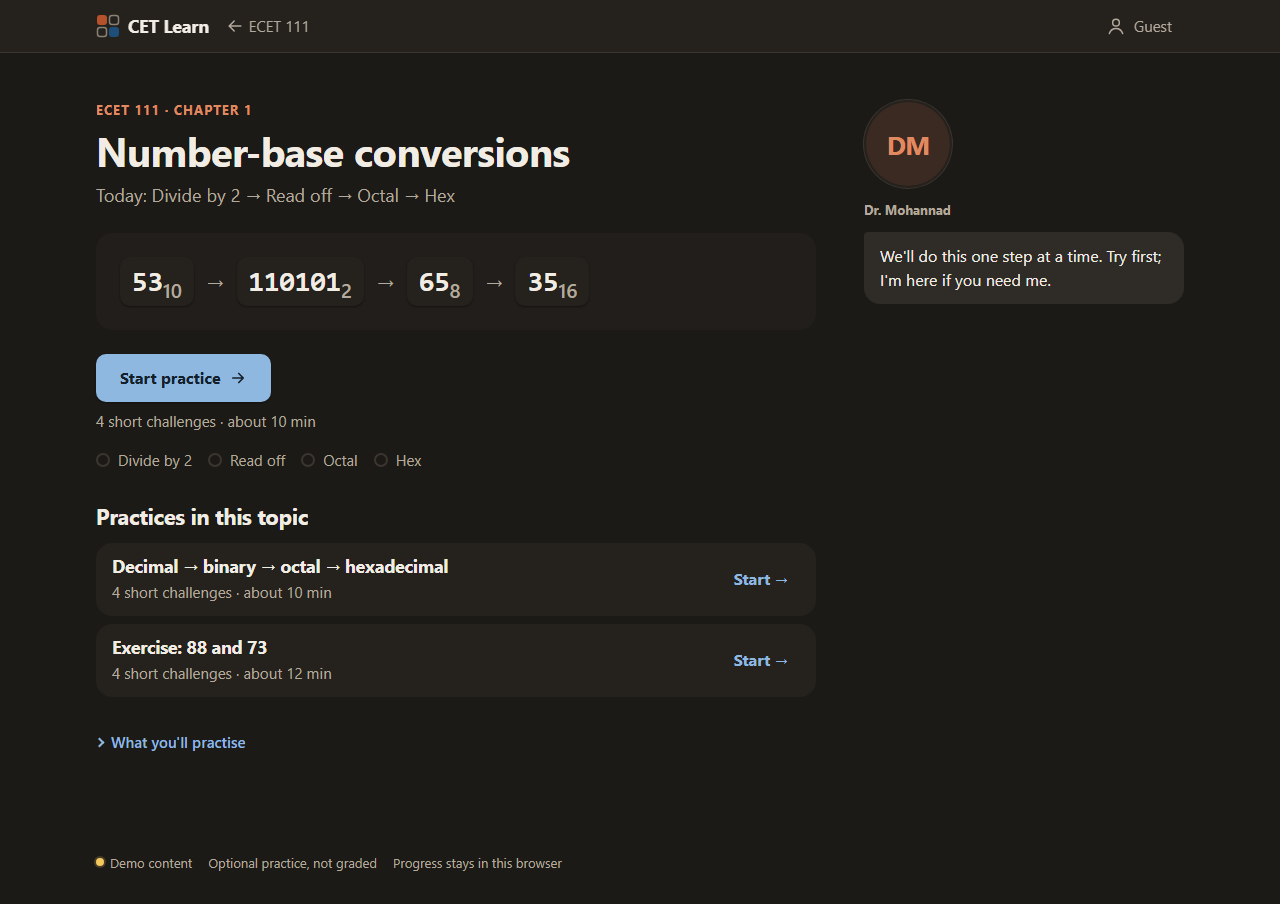
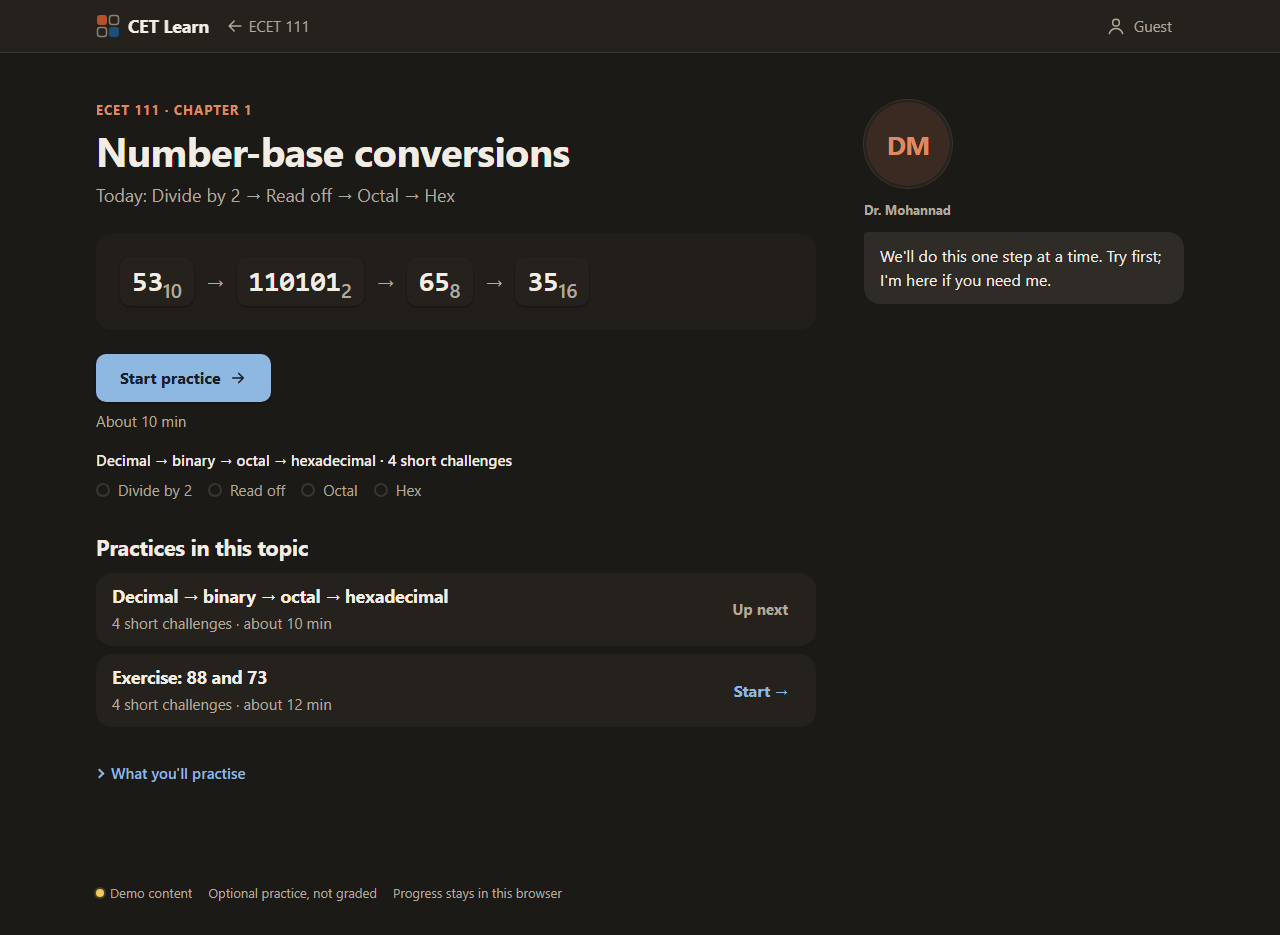
fix(shell): topic page review — shared practiceAction, labelled steps, Up next row, aligned rows, 12 px subscripts

diff --git a/src/shell/r1/TopicNext.tsx b/src/shell/r1/TopicNext.tsx
@@ -4,7 +4,7 @@ import Link from "next/link";
 import { useSyncExternalStore } from "react";
 import type { Course, Topic } from "@/content/schema";
 import { useOfferingProgress } from "@/learner";
-import { practiceHref, reviewHref, topicAction } from "../primaryAction";
+import { practiceAction, topicAction } from "../primaryAction";
 import { ChallengeSteps, stepsFrom } from "./ChallengeSteps";
 import { PrimaryAction, effortCue } from "./PrimaryAction";
 import styles from "./r1.module.css";
@@ -27,15 +27,26 @@ export function TopicNext({ course, topic }: { course: Course; topic: Topic }) {
   const record = progress.activities[activity.id];
   const done = record?.status === "completed" ? activity.questions.map((q) => q.id) : (record?.completedQuestions ?? []);
   const finished = action.kind === "next-topic" || action.kind === "review";
+  const several = topic.activities.length > 1;
 
   return (
     <div className={styles.next} style={ready ? undefined : { visibility: "hidden" }} aria-busy={!ready} data-action={action.kind}>
       <PrimaryAction
         primary={action.primary}
         secondary={action.secondary}
-        effort={finished ? "Completed. You can review it any time." : effortCue(activity.questions.length, activity.minutes)}
+        effort={finished ? "Completed. You can review it any time." : several ? `About ${activity.minutes} min` : effortCue(activity.questions.length, activity.minutes)}
       />
-      {!finished && <ChallengeSteps steps={stepsFrom(activity.questions, done, record?.status === "started")} />}
+      {!finished && (
+        <div className={styles.stepsBlock}>
+          {/* with several practices, say which one the steps belong to */}
+          {several && (
+            <p className={styles.stepsLabel}>
+              {activity.title} · {activity.questions.length} short challenge{activity.questions.length === 1 ? "" : "s"}
+            </p>
+          )}
+          <ChallengeSteps steps={stepsFrom(activity.questions, done, record?.status === "started")} label={several ? `Challenges of ${activity.title}` : "Challenges"} />
+        </div>
+      )}
 
       {topic.activities.length > 1 && (
         <section className={styles.practices} aria-labelledby="practices-h">
@@ -44,23 +55,24 @@ export function TopicNext({ course, topic }: { course: Course; topic: Topic }) {
           </h2>
           <ol className={styles.practiceList}>
             {topic.activities.map((a) => {
-              const status = progress.activities[a.id]?.status ?? "new";
+              const own = practiceAction(course, topic, a, progress);
               const count = progress.activities[a.id]?.completedQuestions?.length ?? 0;
-              const line =
-                status === "completed" ? "Completed" : status === "started" ? `${count} of ${a.questions.length} challenges done` : effortCue(a.questions.length, a.minutes);
-              const link =
-                status === "completed"
-                  ? { label: "Review", href: reviewHref(course, topic, a) }
-                  : { label: status === "started" ? "Continue" : "Start", href: practiceHref(course, topic, a) };
+              const line = own.kind === "review" ? "Completed" : own.kind === "continue" ? `${count} of ${a.questions.length} challenges done` : effortCue(a.questions.length, a.minutes);
+              // The practice the page button is about has no second button: the primary is its button.
+              const upNext = !finished && a.id === activity.id;
               return (
-                <li key={a.id} className={styles.practiceRow} data-status={status}>
+                <li key={a.id} className={styles.practiceRow} data-status={own.kind} data-up-next={upNext || undefined}>
                   <div className={styles.practiceText}>
                     <h3 className={styles.topicTitle}>{a.title}</h3>
-                    <p className={`${styles.topicStatus} ${status === "completed" ? styles.topicDone : styles.statusMuted}`}>{line}</p>
+                    <p className={`${styles.topicStatus} ${own.kind === "review" ? styles.topicDone : styles.statusMuted}`}>{line}</p>
                   </div>
-                  <Link href={link.href} className={styles.quiet} aria-label={`${link.label}: ${a.title}`}>
-                    {link.label} <span aria-hidden="true">→</span>
-                  </Link>
+                  {upNext ? (
+                    <span className={styles.upNext}>{own.kind === "continue" ? "In progress" : "Up next"}</span>
+                  ) : (
+                    <Link href={own.link.href} className={`${styles.quiet} ${styles.rowAction}`} aria-label={`${own.link.label}: ${a.title}`}>
+                      {own.link.label} <span aria-hidden="true">→</span>
+                    </Link>
+                  )}
                 </li>
               );
             })}

diff --git a/src/shell/r1/TopicNext.test.tsx b/src/shell/r1/TopicNext.test.tsx
@@ -23,9 +23,9 @@ describe("TopicNext", () => {
     const button = document.querySelector("[data-primary-action]")!;
     expect(button).toHaveTextContent("Start practice");
     expect(button.getAttribute("href")).toContain(`/${topic.id}/${first.id}`);
-    // under the button (and again on the practice's own row when the topic has several)
-    expect(screen.getAllByText(`${first.questions.length} short challenges · about ${first.minutes} min`).length).toBeGreaterThan(0);
-    const steps = within(screen.getByRole("list", { name: "Challenges" })).getAllByRole("listitem");
+    expect(document.querySelectorAll("[data-primary-action]")).toHaveLength(1);
+    expect(screen.getAllByText(new RegExp(`${first.questions.length} short challenges`)).length).toBeGreaterThan(0);
+    const steps = within(screen.getByRole("list", { name: /^Challenges/ })).getAllByRole("listitem");
     expect(steps).toHaveLength(first.questions.length);
     expect(steps.every((s) => s.getAttribute("data-state") === "todo")).toBe(true);
   });
@@ -36,7 +36,7 @@ describe("TopicNext", () => {
     });
     render(<TopicNext course={course} topic={topic} />);
     expect(document.querySelector("[data-primary-action]")).toHaveTextContent("Continue");
-    const states = within(screen.getByRole("list", { name: "Challenges" })).getAllByRole("listitem").map((s) => s.getAttribute("data-state"));
+    const states = within(screen.getByRole("list", { name: /^Challenges/ })).getAllByRole("listitem").map((s) => s.getAttribute("data-state"));
     expect(states.slice(0, 2)).toEqual(["done", "current"]);
   });
 
@@ -47,9 +47,14 @@ describe("TopicNext", () => {
     render(<TopicNext course={course} topic={topic} />);
     const rows = within(screen.getByRole("region", { name: "Practices in this topic" })).getAllByRole("listitem");
     expect(rows).toHaveLength(topic.activities.length);
-    expect(rows[0]).toHaveAttribute("data-status", "completed");
+    expect(rows[0]).toHaveAttribute("data-status", "review");
     expect(within(rows[0]).getByRole("link", { name: `Review: ${first.title}` }).getAttribute("href")).toContain("review=1");
-    expect(within(rows[1]).getByRole("link", { name: `Start: ${topic.activities[1].title}` })).toBeInTheDocument();
+    // the practice the page button is about is marked "Up next" and has no second button
+    expect(rows[1]).toHaveAttribute("data-up-next", "true");
+    expect(within(rows[1]).queryByRole("link")).toBeNull();
+    expect(rows[1]).toHaveTextContent("Up next");
+    // and the steps say which practice they belong to
+    expect(screen.getByRole("list", { name: `Challenges of ${topic.activities[1].title}` })).toBeInTheDocument();
     // the page button has moved on to the topic's next practice
     expect(document.querySelector("[data-primary-action]")!.getAttribute("href")).toContain(topic.activities[1].id);
   });
@@ -61,7 +66,7 @@ describe("TopicNext", () => {
     render(<TopicNext course={course} topic={topic} />);
     const isLast = topics[topics.length - 1].id === topic.id;
     expect(document.querySelector("[data-primary-action]")).toHaveTextContent(isLast ? "Review" : "Next topic");
-    expect(screen.queryByRole("list", { name: "Challenges" })).toBeNull();
+    expect(screen.queryByRole("list", { name: /^Challenges/ })).toBeNull();
     expect(screen.getByText("Completed. You can review it any time.")).toBeInTheDocument();
   });
 });

diff --git a/src/shell/primaryAction.test.ts b/src/shell/primaryAction.test.ts
@@ -1,7 +1,7 @@
 import { describe, expect, it } from "vitest";
 import { getCourse } from "@/content";
 import type { ActivityProgress, OfferingProgress } from "@/learner/progress";
-import { courseAction, topicAction, topicRowAction } from "./primaryAction";
+import { courseAction, practiceAction, topicAction, topicRowAction } from "./primaryAction";
 
 const course = getCourse("ecet111")!;
 const topics = course.modules.flatMap((m) => m.topics);
@@ -91,5 +91,16 @@ describe("topics with more than one practice", () => {
     const action = topicAction(course, multi!, progress({ [a.id]: record("completed") }));
     expect(action).toMatchObject({ kind: "start", primary: { href: `/courses/ecet111/${multi!.id}/${b.id}/` } });
     expect(topicAction(course, multi!, progress({ [a.id]: record("completed"), [b.id]: record("started") })).kind).toBe("continue");
+  });
+});
+
+describe("practiceAction: one practice's own row", () => {
+  it("is Start, Continue or Review from that practice's status alone", () => {
+    const a = practice(0);
+    const href = `/courses/ecet111/${first.id}/${a.id}/`;
+    expect(practiceAction(course, first, a, progress())).toEqual({ kind: "start", link: { label: "Start", href } });
+    expect(practiceAction(course, first, a, progress({ [a.id]: record("new") })).kind).toBe("start");
+    expect(practiceAction(course, first, a, progress({ [a.id]: record("started") }))).toEqual({ kind: "continue", link: { label: "Continue", href } });
+    expect(practiceAction(course, first, a, progress({ [a.id]: record("completed") }))).toEqual({ kind: "review", link: { label: "Review", href: `${href}?review=1` } });
   });
 });

diff --git a/src/shell/primaryAction.ts b/src/shell/primaryAction.ts
@@ -50,6 +50,14 @@ function currentPractice(topic: Topic, progress: Progress): Activity {
 
 const isCompleted = (topic: Topic, progress: Progress) => topic.activities.every((a) => statusOf(progress, a) === "completed");
 
+/** One practice's own action, for a row that lists it: Start, Continue or Review. */
+export function practiceAction(course: Course, topic: Topic, activity: Activity, progress: Progress): { kind: "start" | "continue" | "review"; link: ActionLink } {
+  const status = statusOf(progress, activity);
+  if (status === "completed") return { kind: "review", link: { label: "Review", href: reviewHref(course, topic, activity) } };
+  if (status === "started") return { kind: "continue", link: { label: "Continue", href: practiceHref(course, topic, activity) } };
+  return { kind: "start", link: { label: "Start", href: practiceHref(course, topic, activity) } };
+}
+
 /** Topic page: follows the table above for this topic's current practice. */
 export function topicAction(course: Course, topic: Topic, progress: Progress): PrimaryAction {
   const activity = currentPractice(topic, progress);

diff --git a/src/shell/r1/r1.module.css b/src/shell/r1/r1.module.css
@@ -191,7 +191,7 @@
 
 .tile sub {
   font-family: var(--font-sans);
-  font-size: 0.7em;
+  font-size: var(--sub-size);
   font-weight: 600;
   line-height: 0;
   color: var(--text-muted);
@@ -554,9 +554,20 @@
   list-style: none;
 }
 
+.stepsBlock {
+  display: grid;
+  gap: var(--space-2);
+}
+
+.stepsLabel {
+  margin: 0;
+  font-size: var(--text-sm);
+  font-weight: 600;
+}
+
+/* the action stays on the title row at every width, so all rows match */
 .practiceRow {
   display: flex;
-  flex-wrap: wrap;
   align-items: center;
   justify-content: space-between;
   gap: var(--space-2) var(--space-4);
@@ -566,9 +577,23 @@
 }
 
 .practiceText {
+  flex: 1;
   display: grid;
   gap: var(--space-1);
   min-width: 0;
+}
+
+.rowAction,
+.upNext {
+  flex: none;
+  white-space: nowrap;
+}
+
+.upNext {
+  padding: 0 var(--space-3);
+  font-size: var(--text-sm);
+  font-weight: 650;
+  color: var(--text-muted);
 }
 
 .practiceText > * {

diff --git a/src/styles/tokens.css b/src/styles/tokens.css
@@ -20,6 +20,8 @@
   --text-xl: 1.75rem;
   --text-display: clamp(1.875rem, 1.35rem + 1.6vw, 2.5rem);
   --leading: 1.5;
+  /* base subscripts in number notation, e.g. (26) base 10: never below 12 px */
+  --sub-size: max(0.7em, 12px);
   --tracking-tight: -0.015em;
   --tracking-eyebrow: 0.08em;
 
